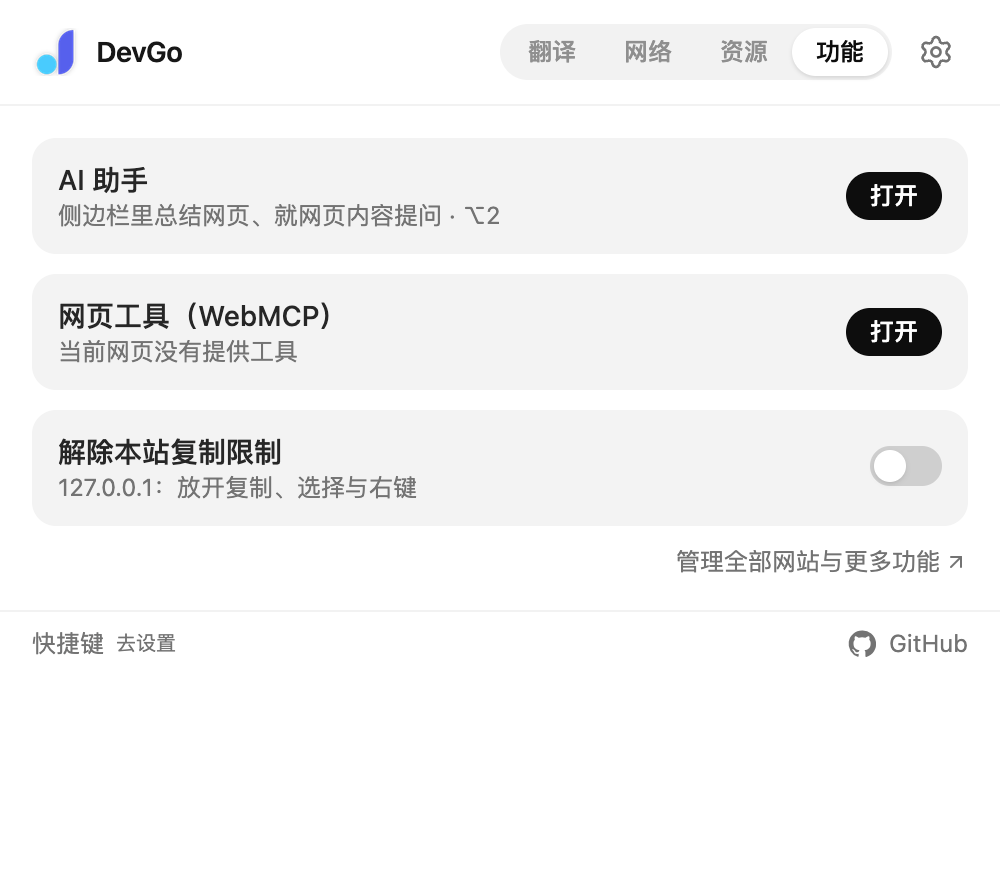
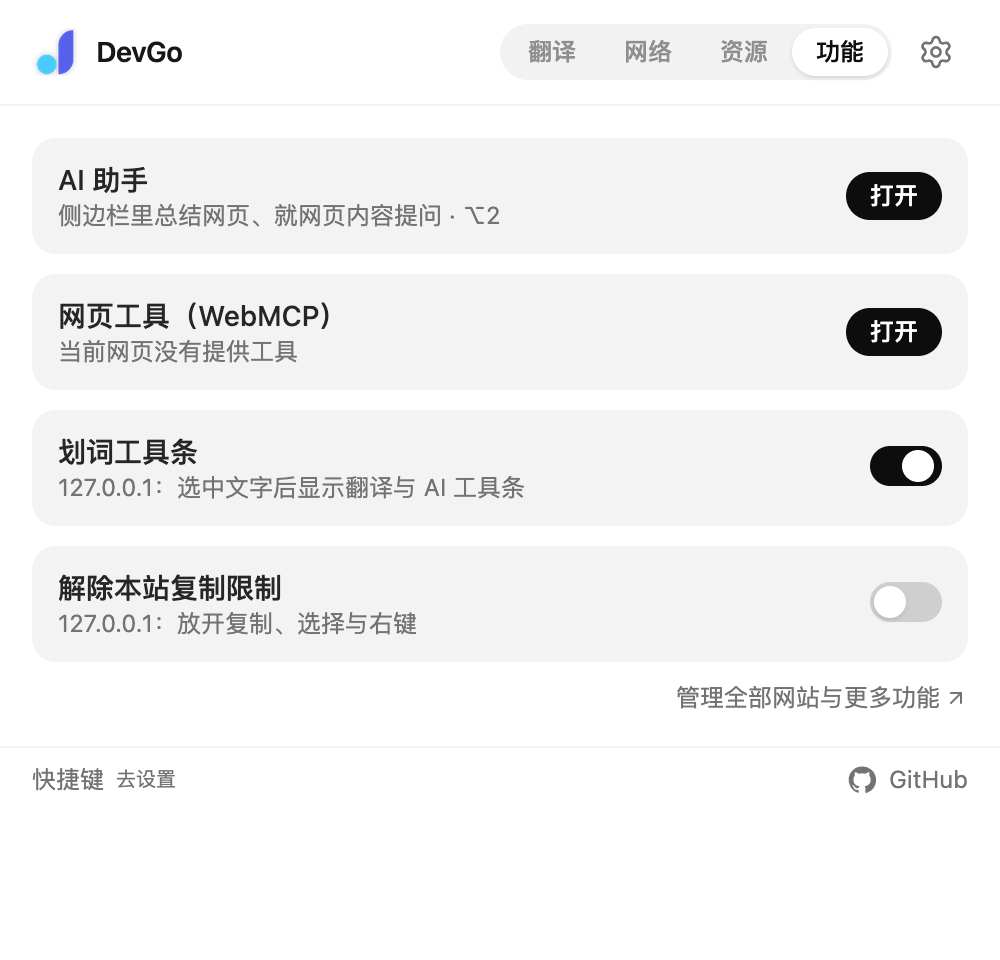
feat(selection): 弹窗「功能」页可对当前网站停用划词工具条，设置页管理停用列表

diff --git a/src/features/popup/FunctionPage.tsx b/src/features/popup/FunctionPage.tsx
@@ -3,7 +3,7 @@ import { useEffect, useState, type ReactNode } from 'react'
 import { useActiveTabId, useWebmcpTools } from '@/features/assistant/webmcp-client'
 import Button from '@/ui/Button'
 import Switch from '@/ui/Switch'
-import { unlockHosts } from '@/utils/settings'
+import { enableSelectionTranslate, selectionDisabledHosts, unlockHosts } from '@/utils/settings'
 import { formatShortcut } from '@/utils/shortcut'
 import { useCommandShortcuts } from '@/utils/useCommandShortcuts'
 import { getActiveHostname } from '@/utils/tabs'
@@ -86,6 +86,54 @@ function WebmcpRow() {
   )
 }
 
+/**
+ * 划词工具条：开关作用于当前网站（在代码编辑器、在线文档里常需要单独关掉）。
+ * 全局关闭时开关显示为关，打开即恢复全局开启。
+ */
+function SelectionSiteRow() {
+  const [enabled, setEnabled] = useStorageItem(enableSelectionTranslate)
+  const [disabledHosts, setDisabledHosts] = useStorageItem(selectionDisabledHosts)
+  const [hostname, setHostname] = useState('')
+
+  useEffect(() => {
+    void getActiveHostname().then(setHostname)
+  }, [])
+
+  const siteDisabled = Boolean(hostname) && disabledHosts.includes(hostname)
+  const checked = enabled && !siteDisabled
+  const toggle = (next: boolean) => {
+    if (!enabled) {
+      if (next) {
+        setEnabled(true)
+        if (siteDisabled) setDisabledHosts(disabledHosts.filter((h) => h !== hostname))
+      }
+      return
+    }
+    if (!hostname) return
+    setDisabledHosts(
+      next
+        ? disabledHosts.filter((h) => h !== hostname)
+        : [...new Set([...disabledHosts, hostname])],
+    )
+  }
+
+  const desc = !enabled
+    ? '已在全部网站关闭，打开后恢复'
+    : !hostname
+      ? '当前页面不支持'
+      : siteDisabled
+        ? `已在 ${hostname} 停用`
+        : `${hostname}：选中文字后显示翻译与 AI 工具条${
+            disabledHosts.length ? `（${disabledHosts.length} 个网站已停用）` : ''
+          }`
+
+  return (
+    <Row title='划词工具条' desc={desc}>
+      <Switch checked={checked} onChange={toggle} disabled={enabled && !hostname} />
+    </Row>
+  )
+}
+
 /** 解除复制限制：只对当前站点开关（全局阻断 copy 等事件会让在线编辑器失灵） */
 function UnlockSiteRow() {
   const [hosts, setHosts] = useStorageItem(unlockHosts)
@@ -131,6 +179,7 @@ export default function FunctionPage() {
           <WebmcpRow />
         </>
       )}
+      <SelectionSiteRow />
       <UnlockSiteRow />
       <button
         type='button'

diff --git a/src/features/options/SelectionSettings.tsx b/src/features/options/SelectionSettings.tsx
@@ -1,6 +1,12 @@
 import { SELECTION_AI_ACTIONS } from '@/features/ai/actions'
+import { X } from 'lucide-react'
+
 import Switch from '@/ui/Switch'
-import { enableSelectionTranslate, selectionAiEnabled } from '@/utils/settings'
+import {
+  enableSelectionTranslate,
+  selectionAiEnabled,
+  selectionDisabledHosts,
+} from '@/utils/settings'
 import { useStorageItem } from '@/utils/useStorageItem'
 
 import { Card, Row, SectionHeader } from './layout'
@@ -9,6 +15,7 @@ import { Card, Row, SectionHeader } from './layout'
 export default function SelectionSettings() {
   const [enabled, setEnabled] = useStorageItem(enableSelectionTranslate)
   const [aiEnabled, setAiEnabled] = useStorageItem(selectionAiEnabled)
+  const [disabledHosts, setDisabledHosts] = useStorageItem(selectionDisabledHosts)
 
   return (
     <div className='flex flex-col gap-5'>
@@ -24,6 +31,34 @@ export default function SelectionSettings() {
         >
           <Switch checked={aiEnabled} onChange={setAiEnabled} disabled={!enabled} />
         </Row>
+      </Card>
+
+      <Card
+        title='停用划词的网站'
+        desc='在这些网站上不显示划词工具条。在弹窗「功能」页可以一键开关当前网站。'
+      >
+        {disabledHosts.length > 0 ? (
+          <ul className='flex flex-wrap gap-2'>
+            {disabledHosts.map((host) => (
+              <li
+                key={host}
+                className='flex items-center gap-1.5 rounded-full border border-neutral-200 bg-neutral-50 py-1 pr-1.5 pl-3 text-xs text-neutral-600'
+              >
+                {host}
+                <button
+                  type='button'
+                  aria-label={`移除 ${host}`}
+                  onClick={() => setDisabledHosts(disabledHosts.filter((item) => item !== host))}
+                  className='flex h-4 w-4 items-center justify-center rounded-full text-neutral-500 hover:bg-neutral-200 hover:text-neutral-600'
+                >
+                  <X className='size-3' aria-hidden />
+                </button>
+              </li>
+            ))}
+          </ul>
+        ) : (
+          <p className='text-xs text-neutral-500'>暂无</p>
+        )}
       </Card>
 
       <Card

diff --git a/src/entrypoints/selection.content.tsx b/src/entrypoints/selection.content.tsx
@@ -3,12 +3,14 @@ import ReactDOM from 'react-dom/client'
 import SelectionApp from '@/features/selection/SelectionApp'
 import {
   getLocalBooleanSetting,
+  getLocalStringListSetting,
   hasExtensionRuntime,
-  watchLocalBooleanSetting,
+  watchLocalSetting,
 } from '@/utils/content-settings'
 import '@/features/selection/style.css'
 
 const ENABLE_SELECTION_TRANSLATE_KEY = 'enableSelectionTranslate'
+const SELECTION_DISABLED_HOSTS_KEY = 'selectionDisabledHosts'
 
 export default defineContentScript({
   matches: ['<all_urls>'],
@@ -34,17 +36,27 @@ export default defineContentScript({
       },
     })
 
-    // 按开关挂载 / 卸载，并监听设置变化动态启停
-    const applyEnabled = (enabled: boolean) => {
-      if (enabled) ui.mount()
-      else ui.remove()
-    }
+    // 全局开关 + 本站是否停用，二者都允许才挂载；设置变化时动态启停
+    let mounted = false
     const sync = async () => {
-      applyEnabled(await getLocalBooleanSetting(ENABLE_SELECTION_TRANSLATE_KEY, true))
+      const [enabled, disabledHosts] = await Promise.all([
+        getLocalBooleanSetting(ENABLE_SELECTION_TRANSLATE_KEY, true),
+        getLocalStringListSetting(SELECTION_DISABLED_HOSTS_KEY),
+      ])
+      const next = enabled && !disabledHosts.includes(location.hostname)
+      if (next === mounted) return
+      mounted = next
+      if (next) ui.mount()
+      else ui.remove()
     }
 
     await sync()
-    const unwatch = watchLocalBooleanSetting(ENABLE_SELECTION_TRANSLATE_KEY, true, applyEnabled)
+    const unwatchEnabled = watchLocalSetting(ENABLE_SELECTION_TRANSLATE_KEY, () => void sync())
+    const unwatchHosts = watchLocalSetting(SELECTION_DISABLED_HOSTS_KEY, () => void sync())
+    const unwatch = () => {
+      unwatchEnabled()
+      unwatchHosts()
+    }
     ctx.onInvalidated(unwatch)
   },
 })

diff --git a/src/utils/content-settings.ts b/src/utils/content-settings.ts
@@ -29,6 +29,28 @@ export async function getLocalBooleanSetting(key: string, fallback: boolean): Pr
   })
 }
 
+export async function getLocalStringListSetting(key: string): Promise<string[]> {
+  if (!hasExtensionRuntime() || !chrome.storage?.local) return []
+
+  return new Promise((resolve) => {
+    chrome.storage.local.get({ [key]: [] }, (items) => {
+      const value = chrome.runtime.lastError ? [] : items[key]
+      resolve(Array.isArray(value) ? value.filter((item) => typeof item === 'string') : [])
+    })
+  })
+}
+
+export function watchLocalSetting(key: string, onChange: () => void): () => void {
+  if (!hasExtensionRuntime() || !chrome.storage?.onChanged) return () => undefined
+
+  const listener = (changes: Record<string, chrome.storage.StorageChange>, areaName: string) => {
+    if (areaName === 'local' && changes[key]) onChange()
+  }
+
+  chrome.storage.onChanged.addListener(listener)
+  return () => chrome.storage.onChanged.removeListener(listener)
+}
+
 export function watchLocalBooleanSetting(
   key: string,
   fallback: boolean,

diff --git a/src/utils/settings.ts b/src/utils/settings.ts
@@ -160,6 +160,11 @@ export const enableSelectionTranslate = storage.defineItem<boolean>(
   { fallback: true },
 )
 
+/** 划词工具条停用的网站（hostname）；全局开关开启时，这些网站仍不显示工具条 */
+export const selectionDisabledHosts = storage.defineItem<string[]>('local:selectionDisabledHosts', {
+  fallback: [],
+})
+
 /** GitHub 增强：在线编辑按钮 + 回到顶部 + 逗号快捷键（默认开启） */
 export const enableGithubEnhance = storage.defineItem<boolean>('local:enableGithubEnhance', {
   fallback: true,

diff --git a/src/utils/backup.ts b/src/utils/backup.ts
@@ -11,6 +11,7 @@ import {
   enableSelectionTranslate,
   hoverTranslateMode,
   selectionAiEnabled,
+  selectionDisabledHosts,
   webrtcBlockApis,
   webrtcHideMediaDevices,
   webrtcPolicy,
@@ -75,6 +76,7 @@ const BACKUP_ITEMS: Record<string, BackupItem> = {
   lookupProvider,
   enableSelectionTranslate,
   selectionAiEnabled,
+  selectionDisabledHosts,
   enableGithubEnhance,
   unlockHosts,
   enableCorsBypass,
